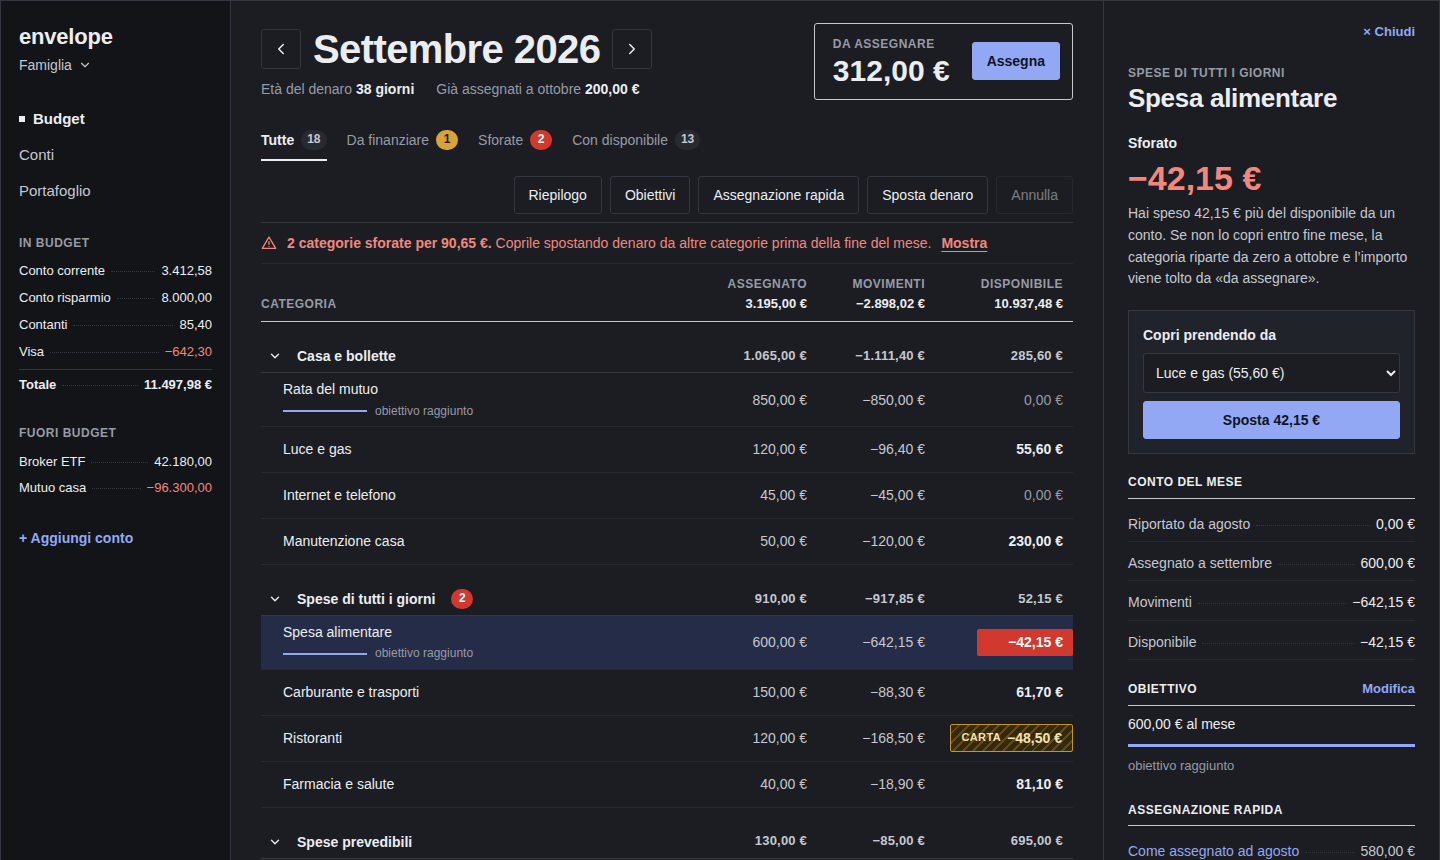
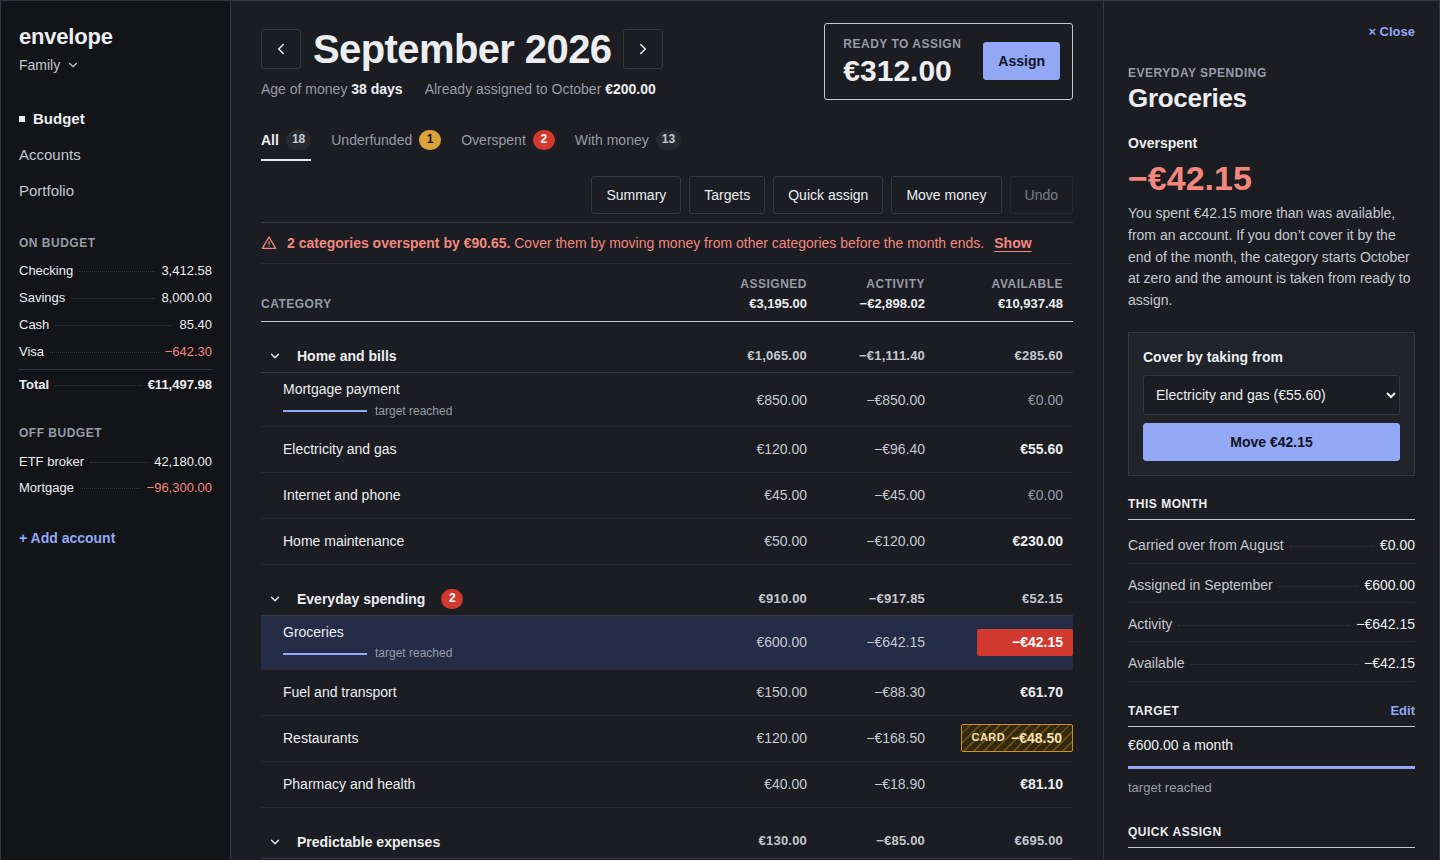
docs: translate the README screenshots and reword the budget goals
Regenerate the README screenshots with English copy and en-GB number
formats; the mockups themselves keep showing the Italian translation.

Replace the budget module's numbered list of method rules with the
practical goals the features serve, described in envelope's own words,
and drop the matching slogans from the README, the design principles,
the budget month summary and the first run.

Claude-Session: https://claude.ai/code/session_01HbKEvhnzUoQnuhzqPXY8JE

diff --git a/docs/ux/mockups/budget-month.html b/docs/ux/mockups/budget-month.html
@@ -627,7 +627,7 @@ button{cursor:pointer}
     if (x.c.payment) explain = 'Soldi messi da parte per pagare la carta. Crescono quando spendi con la carta da una categoria che ha disponibile, calano quando paghi la carta.';
     else if (st === 'cash') explain = 'Hai speso ' + f(deficit) + ' più del disponibile da un conto. Se non lo copri entro fine mese, la categoria riparte da zero a ottobre e l’importo viene tolto da «da assegnare».';
     else if (st === 'credit') explain = 'Hai speso ' + f(deficit) + ' più del disponibile con la Visa. Se non lo copri, diventa debito sulla carta non coperto dalla categoria di pagamento.';
-    else if (st === 'pos') explain = 'Questi soldi hanno già un lavoro. Quello che resta a fine mese passa a ottobre.';
+    else if (st === 'pos') explain = 'Questi soldi sono già assegnati. Quello che resta a fine mese passa a ottobre.';
     else explain = 'Nessun disponibile: una spesa qui renderebbe la categoria sforata.';
 
     var cover = '';
@@ -704,7 +704,7 @@ button{cursor:pointer}
     var todo = overspent.concat(under.filter(function (k) { return overspent.indexOf(k) < 0; }));
     return CLOSE + '<div><span class="where">Famiglia \u00b7 settembre 2026</span><h4>Riepilogo del mese</h4></div>' +
       '<div class="sec" style="gap:8px"><span class="state-l">Da assegnare</span><span class="big n' + (r < 0 ? ' cash' : '') + '">' + f(r) + '</span>' +
-      '<p class="explain">' + (r > 0 ? 'Soldi arrivati che non hanno ancora un lavoro. Assegnali alle categorie o ai mesi futuri.' : r === 0 ? 'Ogni euro ha un lavoro.' : 'Hai assegnato più soldi di quelli che hai: togline da qualche categoria.') + '</p></div>' +
+      '<p class="explain">' + (r > 0 ? 'Soldi arrivati e non ancora assegnati. Assegnali alle categorie o ai mesi futuri.' : r === 0 ? 'Tutti i soldi arrivati sono assegnati.' : 'Hai assegnato più soldi di quelli che hai: togline da qualche categoria.') + '</p></div>' +
       '<div class="gstats"><div><small>Categorie</small><b class="n">' + keys.length + '</b></div>' +
       '<div><small>Sforate</small><b class="n' + (overspent.length ? ' bad' : '') + '">' + overspent.length + '</b></div>' +
       '<div><small>Da finanziare</small><b class="n' + (under.length ? ' warn' : '') + '">' + under.length + '</b></div></div>' +

diff --git a/docs/ux/mockups/settings-first-run.html b/docs/ux/mockups/settings-first-run.html
@@ -615,8 +615,8 @@ table.nt small{display:block;color:var(--muted)}
   function renderOnb() {
     var total = 5, h = '<div class="onb-top"><b>envelope</b><div class="dots-steps" aria-label="Passo ' + O.step + ' di ' + total + '">' + [1, 2, 3, 4, 5].map(function (i) { return '<i class="' + (i <= O.step ? 'on' : '') + '"></i>'; }).join('') + '</div></div>';
     if (O.step === 1) {
-      h += '<h2>Benvenuto. Diamo un lavoro a ogni euro.</h2><p>Il budget funziona così: assegni ai tuoi obiettivi solo i soldi che hai già, non quelli che arriveranno.</p>' +
-        '<ol class="rules4"><li>Dai un lavoro a ogni euro.</li><li>Metti da parte ogni mese per le spese che arrivano di rado.</li><li>Se sfori, sposti soldi da un’altra categoria: nessun senso di colpa.</li><li>Col tempo spendi i soldi del mese scorso, non quelli di questo.</li></ol>' +
+      h += '<h2>Benvenuto in envelope.</h2><p>Qui assegni alle categorie solo i soldi che sono già arrivati sui tuoi conti. Ogni spesa scala dalla sua categoria, e quello che avanza passa al mese dopo.</p>' +
+        '<ul class="rules4"><li>Ogni categoria mostra quanto resta da spendere questo mese.</li><li>Le spese rare, come l\u2019assicurazione, si preparano un po\u2019 alla volta con gli obiettivi.</li><li>Il budget e i conti tornano sempre al centesimo.</li></ul>' +
         '<div class="field"><span style="font-weight:600">Lingua</span>' + segs('olang', O.lang, [['it', 'Italiano'], ['en', 'English']]) + '</div>';
     } else if (O.step === 2) {
       h += '<h2>Crea il tuo workspace</h2><p>Un workspace contiene un budget e i suoi conti. Puoi invitare altre persone più avanti.</p>' +

diff --git a/docs/design.md b/docs/design.md
@@ -6,7 +6,7 @@ Last updated: 2026-09-25. This is the reference design; decisions with lasting t
 
 One app, web and mobile, that combines envelope budgeting with portfolio management, target allocation and threshold-based rebalancing. The current goal is personal and family use, self-hosted. Open source distribution and a hosted version for others remain possible later, which is why the architecture is multi-user from day one: it costs little to do it now.
 
-- **Every euro has a job.** The budget assigns only money that is already available, never future income.
+- **Only money that has arrived.** The budget assigns money already in the accounts, never future income.
 - **One net worth.** Budget cash and investments add up to the same net worth.
 - **User rules, not advice.** The app only computes what is needed to respect the targets and thresholds the user has set. It never suggests instruments to buy and never judges the user's choices.
 - **Always verifiable.** Every balance, position and return can be rebuilt from the recorded transactions.
@@ -15,7 +15,7 @@ One app, web and mobile, that combines envelope budgeting with portfolio managem
 
 ## Budget module
 
-The budget follows the envelope method: money comes into "ready to assign" and the user distributes it across categories until nothing is left without a job.
+The budget follows the envelope method: money comes into "ready to assign" and the user distributes it across categories until all of it is assigned.
 
 | Feature | What it does | Phase |
 | --- | --- | --- |
@@ -40,16 +40,14 @@ The budget follows the envelope method: money comes into "ready to assign" and t
 | Bank connection | Automatic sync through a PSD2 provider | Phase 3 |
 | Shared budgets | Several people on the same budget with different roles | Phase 3 |
 
-### The four rules of the method
+### What the budget is for
 
-Every rule of the method has at least one MVP feature that makes it practical.
+The features above serve a few practical goals of a household budget:
 
-| Rule | Where it lives in envelope |
-| --- | --- |
-| 1. Give every euro a job | Ready to assign, monthly assignment, warning when assigning more than is available |
-| 2. Plan for true expenses (irregular but predictable: car, vet, gifts) | Targets for expenses repeating every N months or years, quick assign |
-| 3. Roll with the punches | Moving money between categories, overspending handling, instant notifications |
-| 4. Age your money | Age of money, assigning to future months |
+- **Money is never counted twice.** Only money that has arrived can be assigned; the warning when assigning more than is available, and reconciliation with the bank, keep the budget equal to the accounts.
+- **Rare bills are not a surprise.** Targets spread an insurance premium or a car tax over the months before it is due, and quick assign funds them in one step.
+- **Overspending is fixed in the open.** A negative category stays visible, and notified, until money is moved to cover it; cash and card overspending are handled apart, so card debt never hides.
+- **Income can arrive before it is needed.** Assigning to future months, and the age of money, show how far ahead of its spending the household is.
 
 ### Target calculation
 
@@ -471,7 +469,7 @@ Both themes follow the operating system setting and can be forced in the user's 
 - **Side panel:** hidden when nothing is selected. It closes with "× Close", by clicking the selected item again, or with Esc. It shows one of:
   - *Category:* state, available amount and a sentence explaining what happens at the end of the month; covering overspending by choosing the category to take money from (preselected: the smallest one that covers the whole amount, never a balance-to-keep target); the month's ledger (carried over, assigned, activity, available); the target with Edit, or "Add a target", and "Assign €X from ready to assign" when money is missing; quick assign (as assigned last month, as spent last month); the month's transactions.
   - *Group:* available in the group; categories, overspent and targets reached; the group's ledger; "Fund the targets" for the group; its categories, each opening its own detail.
-  - *Summary:* ready to assign with a sentence for its state (money without a job, every euro has a job, too much assigned); counts; "To fix" with overspent categories and missing targets; the month's ledger; a reconciliation block showing that ready to assign + available + assigned to future months + uncovered card spending = money in the on-budget accounts.
+  - *Summary:* ready to assign with a sentence for its state (money not assigned yet, everything assigned, too much assigned); counts; "To fix" with overspent categories and missing targets; the month's ledger; a reconciliation block showing that ready to assign + available + assigned to future months + uncovered card spending = money in the on-budget accounts.
   - *Targets:* every target grouped by kind, what the targets ask this month and what is still missing, "Fund all targets", and the categories without a target, each with "Add".
   - *Target editor:* the four kinds, each with a one-line explanation; amount (typed in the user's locale), due month, repeat interval; a live preview of what the target asks and what is missing this month; Save, Cancel and Remove.
 
@@ -484,7 +482,7 @@ One column: month, ready to assign, age of money, and a link with the number and
 - **Account register.** Desktop: the account's cleared, pending and total balance; filters by state with counts; search; transactions newest first with a running balance, splits shown under their row; a round control on each row switches pending and cleared, reconciled rows show a padlock. A row opens in the side panel: outflow, inflow or transfer; the payee proposes the category used last time; the category's available amount before and after; splitting across categories with the amount still to split; transfers to a credit card are card payments, transfers to an off-budget account ask for a category. Phone: accounts list, register grouped by day, full-screen transaction form, and quick entry (amount keypad, place, category with its available amount, account).
 - **Import and reconciliation.** Import in four steps (file, columns, check, done) and reconciliation with the statement balance, the difference, clues and locking, as described in "Import and reconciliation".
 - **Settings.** Two separate places. *Your account*, from the user menu, holds what belongs to the person and applies in every workspace: profile, language, number and date format, personal time zone, theme, notifications and devices, sign-in and security. *Workspace settings*, from the workspace switcher, hold what every member shares: name, currency and the workspace time zone, members and roles, categories and groups, accounts, data export and deletion. Changing workspace settings needs the owner role, except categories, which editors can manage.
-- **First run.** Five steps: the method in four lines, the workspace, the first account with today's balance (cash accounts only; credit cards are added later), the starting categories, and the amount ready to assign.
+- **First run.** Five steps: a short introduction to how the budget works, the workspace, the first account with today's balance (cash accounts only; credit cards are added later), the starting categories, and the amount ready to assign.
 - **Portfolio.** Overview (value, contributions, gain, 12-month return, out-of-threshold notice, value against contributions over time, month-by-month table, allocation bars, positions), allocation editor (targets per level adding up to 100%, threshold rule, rebalancing presets), rebalancing (mode, contribution, minimum trade, whole or fractional units, "To get back to your targets:"), trade entry, and linked accounts showing how each brokerage account is split across portfolios, with holdings not assigned yet. A new portfolio is created with a short guided setup: name and purpose, accounts, which holdings of each account belong to it, a starting allocation. Phone: value chart, allocation bars and the monthly check.
 
 ### Screens still to design

diff --git a/README.md b/README.md
@@ -1,6 +1,6 @@
 # envelope
 
-**A self-hosted budget and investment app for households.** Give every euro a job, keep your portfolios on the targets you chose, and keep your data on your own server.
+**A self-hosted budget and investment app for households.** Budget the money you already have, keep your portfolios on the targets you chose, and keep your data on your own server.
 
 [![CI](https://github.com/aramilialon/project_envelope/actions/workflows/ci.yml/badge.svg)](https://github.com/aramilialon/project_envelope/actions/workflows/ci.yml)
 
@@ -9,11 +9,11 @@
   <img alt="The budget month: categories with assigned, activity and available amounts, overspent categories in red and amber, and the detail of the selected category on the right" src="docs/ux/screenshots/budget-month-light.png">
 </picture>
 
-> `envelope` is a code name. The app is being built: the backend comes first (milestone 0.1.x), then the web app. The screens on this page come from the [interactive mockups](docs/ux/mockups/), shown in their Italian translation.
+> `envelope` is a code name. The app is being built: the backend comes first (milestone 0.1.x), then the web app. The screens on this page come from the [interactive mockups](docs/ux/mockups/); the mockups themselves show the Italian translation.
 
 ## What it does
 
-**Envelope budgeting.** Money that comes in lands in *ready to assign*; you give it a job by assigning it to categories, and you only ever assign money you already have.
+**Envelope budgeting.** Money that comes in lands in *ready to assign*; you assign it to categories, and you only ever assign money you already have.
 
 - Categories with rollover, credit cards with their own payment category, overspending that is handled differently for cash and for cards.
 - Targets for monthly bills, for a sum by a date, for expenses that repeat every few months, and for a balance to keep.
@@ -42,7 +42,7 @@
 
 ## Principles
 
-- **Every euro has a job.** The budget assigns only money that is already available.
+- **Only money that has arrived.** The budget assigns money already in the accounts, never future income.
 - **Your rules, not advice.** Targets, thresholds and rebalancing rules are yours; the app does the arithmetic.
 - **Always verifiable.** Amounts are integers in minor units, and the money in the budget always matches the money in the accounts: the core's tests prove it on hundreds of random histories.
 - **The data belongs to you.** No tracking, no selling of data, and a self-hosted install talks only to the services you configure.
